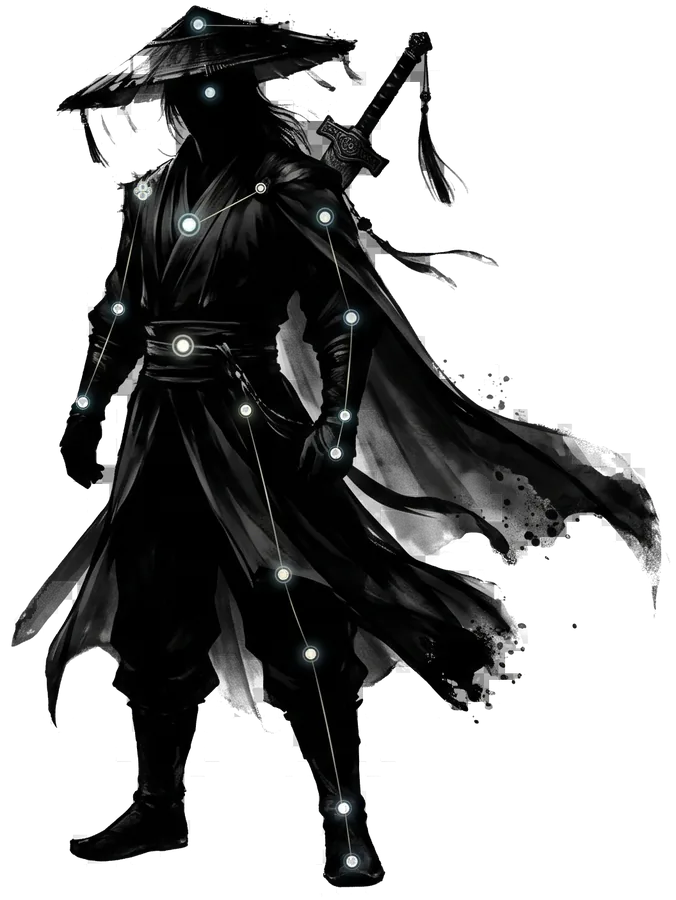
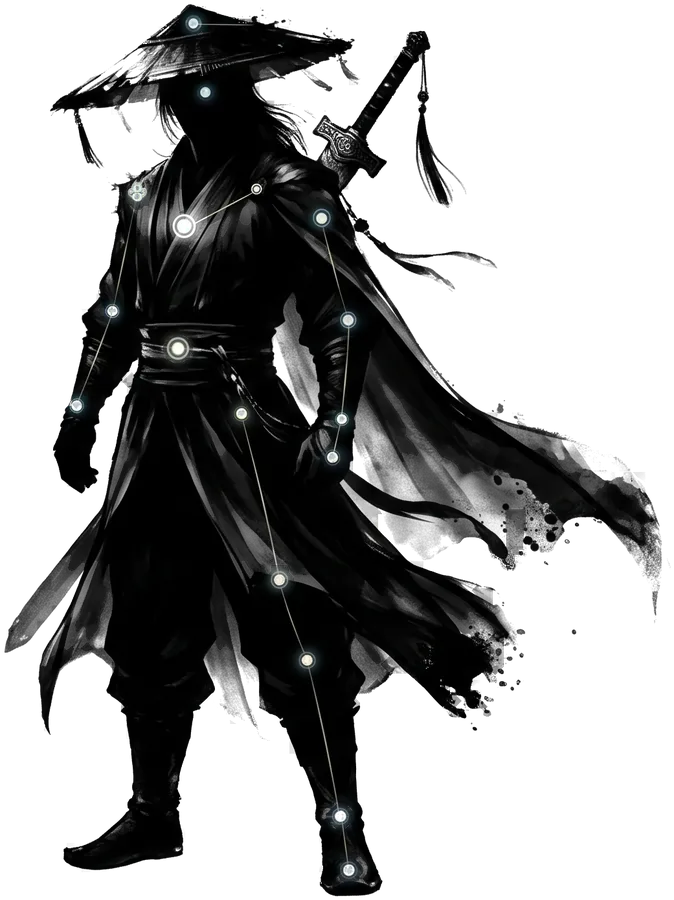
修練頁人物面板：女版剪影，角色是女的就換女版
男女各一張去背圖、各自的光點座標（HERO_FIGURES）；status.gender 是「女」時用女版。
男版重新去背，邊緣比較乾淨。

Claude-Session: https://claude.ai/code/session_01WxoqxfJkXgm6Kc1Q4FCuGs

diff --git a/web/app.js b/web/app.js
@@ -85,7 +85,7 @@
     person: null,
     kind: "武學",
     artOpen: null, // 修練頁武學清單裡點開的那一門（id）；切分頁、改練成功之後收起
-    heroNode: null, // 修練頁人物面板點著的那個光點（HERO_NODES 的 key）；沒點過是內功
+    heroNode: null, // 修練頁人物面板點著的那個光點（HERO_FIGURES 的 key）；沒點過是內功
     artInfo: null, // 修練頁哪一門攤開了「詳情」（完整的功法卡）
     libFilter: null, // 修練頁功法庫的篩選：all／武學／內功／ready（可修練）；武學多時才出現。null＝還沒讀過這個瀏覽器記的（libFilter()，FB-085）
     libAll: false, // 功法庫列完了沒（武學多時先只列 LIB_PAGE 門）
@@ -1912,17 +1912,30 @@
   }
 
   // ── 修練頁最上面的人物面板（企劃者 2026-10-12：照她給的人物剪影與版面改一版）──
-  // 剪影（web/hero.webp，去背過的）身上的光點各對上一樣真的東西：身上的兩門、四欄裝備（屬性不放上去，企劃者 2026-10-12「亂七八糟的」，
+  // 剪影（web/hero.webp、hero-f.webp，去背過的）身上的光點各對上一樣真的東西：身上的兩門、四欄裝備（屬性不放上去，企劃者 2026-10-12「亂七八糟的」，
   // 配點照舊在狀態列）。座標是剪影圖的百分比（照圖上的光點量的），side 是名字標在點的哪一邊。點了底下那一格寫它現在是什麼，
   // 多一顆「看這一門／看這件」捲到下面那張卡。點哪一個記在 S.heroNode（只是看的方式，輪詢重畫不跳回去）
-  const HERO_NODES = [
-    { key: "weapon", kind: "gear", x: 52.4, y: 15.4, side: "r" },
-    { key: "treasure", kind: "gear", x: 20.7, y: 20.8, side: "l" },
-    { key: "armor", kind: "gear", x: 47.9, y: 24.1, side: "r" },
-    { key: "內功", kind: "art", x: 27.1, y: 38.4, side: "r" },
-    { key: "武學", kind: "art", x: 50.6, y: 48.0, side: "r" },
-    { key: "mount", kind: "gear", x: 52.1, y: 95.7, side: "r" },
-  ];
+  // 男女各一張剪影（企劃者 2026-10-12：之後創角色要選性別），光點各照自己那張圖量；status.gender 是「女」就用女版，其餘（還沒有性別的角色）男版。
+  // 兩張的光點對上同樣六樣東西，只是位置不同；女版的寶物是腰間的佩飾、武學在手肘
+  const HERO_FIGURES = {
+    男: { src: "/static/hero.webp", ratio: "674 / 900", nodes: [
+      { key: "weapon", kind: "gear", x: 52.0, y: 15.1, side: "r" },
+      { key: "treasure", kind: "gear", x: 20.3, y: 21.4, side: "l" },
+      { key: "armor", kind: "gear", x: 47.7, y: 24.2, side: "r" },
+      { key: "內功", kind: "art", x: 26.4, y: 38.7, side: "r" },
+      { key: "武學", kind: "art", x: 50.0, y: 48.6, side: "r" },
+      { key: "mount", kind: "gear", x: 51.8, y: 96.7, side: "r" },
+    ] },
+    女: { src: "/static/hero-f.webp", ratio: "693 / 900", nodes: [
+      { key: "weapon", kind: "gear", x: 47.0, y: 17.5, side: "r" },
+      { key: "armor", kind: "gear", x: 42.6, y: 23.6, side: "r" },
+      { key: "武學", kind: "art", x: 47.2, y: 33.8, side: "r" },
+      { key: "內功", kind: "art", x: 25.0, y: 38.1, side: "l" },
+      { key: "treasure", kind: "gear", x: 35.8, y: 45.3, side: "r" },
+      { key: "mount", kind: "gear", x: 50.1, y: 96.9, side: "r" },
+    ] },
+  };
+  const heroFigure = (s) => HERO_FIGURES[s && s.gender === "女" ? "女" : "男"];
   const HERO_GEAR_NAMES = { weapon: "武器", armor: "防具", mount: "坐騎", treasure: "寶物" };
   // 一個光點此刻的樣子：標籤、有沒有東西（沒有的點暗著）、底下那一格的標題、說明、按鈕
   function heroInfo(n, x, s) {
@@ -1957,7 +1970,8 @@
       <div class="hero-ft-row"><p>${esc(info.desc)}</p>${info.button}</div>`;
   }
   function heroPanel(x, s) {
-    const nodes = HERO_NODES.map((n) => [n, heroInfo(n, x, s)]).filter(([, info]) => info);
+    const fig = heroFigure(s);
+    const nodes = fig.nodes.map((n) => [n, heroInfo(n, x, s)]).filter(([, info]) => info);
     if (!nodes.length) return "";
     const pick = nodes.find(([n]) => n.key === S.heroNode) || nodes.find(([n]) => n.key === "內功") || nodes[0];
     return `<section class="hero" aria-label="人物">
@@ -1967,8 +1981,8 @@
       </div>
       <div class="hero-stage">
         <div class="hero-halo" aria-hidden="true"></div>
-        <div class="hero-fig">
-          <img src="/static/hero.webp" alt="" draggable="false">
+        <div class="hero-fig" style="aspect-ratio:${fig.ratio}">
+          <img src="${fig.src}" alt="" draggable="false">
           ${nodes.map(([n, info]) => `<button class="hero-node${n === pick[0] ? " on" : ""}${info.lit ? "" : " dim"} ${n.side}" style="left:${n.x}%;top:${n.y}%" data-act="hero-node" data-key="${esc(n.key)}" aria-label="${esc(info.label)}"><i class="pulse"></i><i class="dot"></i><span>${esc(info.label)}</span></button>`).join("")}
         </div>
       </div>
@@ -1978,7 +1992,7 @@
   // 點光點：只換點的樣子與底下那一格、在點上散一圈朱砂（不重畫整頁，水墨的動畫才不會斷）
   function heroTap(el) {
     const key = el.dataset.key;
-    const n = HERO_NODES.find((h) => h.key === key);
+    const n = S.main && heroFigure(S.main.status).nodes.find((h) => h.key === key);
     const info = n && S.menxia && S.main && heroInfo(n, S.menxia, S.main.status);
     if (!info) return;
     S.heroNode = key;

diff --git a/web/style.css b/web/style.css
@@ -1152,7 +1152,7 @@ ol.annals { list-style: none; margin: 0; padding: 4px 14px; }
 .hero-halo { position: absolute; width: 300px; height: 300px; top: 30px; left: calc(50% - 150px); border-radius: 50%;
   border: 1.5px dashed var(--hero-edge); animation: hero-spin 45s linear infinite; pointer-events: none; }
 @keyframes hero-spin { to { transform: rotate(360deg); } }
-.hero-fig { position: absolute; top: 6px; bottom: 6px; left: 50%; transform: translateX(-50%); aspect-ratio: 676 / 900; }
+.hero-fig { position: absolute; top: 6px; bottom: 6px; left: 50%; transform: translateX(-50%); aspect-ratio: 674 / 900; } /* 照哪一張剪影，app.js 用 style 蓋掉 */
 .hero-fig img { display: block; width: 100%; height: 100%; filter: drop-shadow(0 6px 12px rgba(0, 0, 0, 0.22)); pointer-events: none; user-select: none; -webkit-user-drag: none; }
 .hero-node { position: absolute; transform: translate(-50%, -50%); width: 28px; height: 28px; padding: 0; border: 0; background: none;
   display: flex; justify-content: center; align-items: center; cursor: pointer; z-index: 2; -webkit-tap-highlight-color: transparent; }

diff --git a/tests/test_hero_panel_web.py b/tests/test_hero_panel_web.py
@@ -56,3 +56,13 @@ def test_a_picked_node_stays_picked_and_gear_nodes_follow_the_open_slots(views):
     assert "&lt;i&gt;試刃&lt;/i&gt;" in foot and "<i>試刃</i>" not in foot  # 名字跳脫
     assert 'data-act="hero-jump" data-to="gear" data-kind="weapon"' in foot
     assert 'data-slot="weapon"' in page  # 「看這件」捲得到的那一段在
+
+
+def test_a_woman_gets_the_female_figure_and_its_own_node_spots(views):
+    m, x = views
+    man = _panel(run(m, "return H.pagePractice();", menxia=x))
+    m["status"]["gender"] = "女"  # 創角色選性別之後由伺服器給（企劃者 2026-10-12）；還沒有這個鍵的角色照男版
+    woman = _panel(run(m, "return H.pagePractice();", menxia=x))
+    assert "/static/hero.webp" in man and "/static/hero-f.webp" in woman
+    spot = lambda page: page.split('data-key="內功"')[0].rsplit("<button", 1)[1]
+    assert spot(man) != spot(woman)  # 光點照各自那張圖的位置

diff --git a/CLAUDE.md b/CLAUDE.md
@@ -285,7 +285,7 @@
 - 登入狀態是 cookie（`tx_session`），伺服器記憶體裡對應帳號；**重開伺服器要重新登入**。前端每 10 秒打 `/api/main`，分頁在背景時不打、上一次還沒回來不打、內容沒變不重畫。手指按在畫面上時輪詢不重畫江湖頁，放開才補（不然按下去的那一顆被換掉、click 落空）。
 - **送出指令的回饋**（Joy 2026-10-12，`web/app.js` 的「送出指令的回饋」那一段）：走 `busy()` 的動作一律一樣——按下去那一顆標 `.sending`（掃光、不能再按），1.5 秒沒回來畫面底下浮一行等候的話（照行動換句，`WAIT_LINES`／`waitLineFor`：探索「四下探看，尚無動靜……」、開爐「爐火正旺，靜待出爐……」，其他「墨跡未乾，江湖尚未回音……」；Joy 要符合世界觀的句子，字是 PM 給的）、12 秒改寫「路遠消息遲，再等片刻……」；上一個還沒回來時再按別的，浮「前一道號令尚未回音」（以前一聲不響地丟掉）。動作（POST）最多等 90 秒（`ACTION_TIMEOUT_MS`），逾時與沒送出去都說「鴻雁折返，訊息未達——再試一次」，逾時另重抓一次畫面，按鈕還原。測試切 busy 一律用 webharness 的 `busyKit()`。
 - **江湖頁**：劇情文字在上、行動在下；375×812 上「剛剛」、場景與整排行動都在第一屏（企劃者要的是按完不用捲就看得到結果）。平常閒著時（選單上有「打坐」）行動是一排五顆「水墨氣勁」按鈕：探索、遊歷、打坐、交友（沒有時是求見）、移動（點了在下面展開走法與「前往」）；其他只在此地才有的行動收在「此地還能做 N 件事」。事件、對話、路上、決戰的選單照舊是一排按鈕。鐵匠鋪（`smith:`）與馬市（`market:`）的選項標籤很長，網頁（`nbChunks`／`.nb`）把它切成不折行的小段，切在「・；、，＋→」後面與「（」前面、一段超過 16 字就不包，標籤的字一個不改，免得 375px 上「下品 46%」「沒人」「屬實」這類詞在字中間斷行（FB-132）。第一季另有公告卡、本週軍令卡、戰況圖卡。
-- **修練頁**（`pagePractice`）：最上面是人物面板（企劃者 2026-10-12 給的版面與剪影；`heroPanel`，圖是去背過的 `web/hero.webp`）：剪影身上的光點對上身上的內功與武學、開著的裝備欄（`HERO_NODES`，座標是圖的百分比；屬性不放上去，企劃者 2026-10-12「亂七八糟的」），點了只換底下那一格（`heroTap`，不重畫整頁；記在 `S.heroNode`，預設內功）：寫那一門或那一件，多一顆「看這一門／看這件」捲到下面那張卡；舞台深淺色都是紙。其下是身上的功法卡、練成鈕（寫價錢）；每一門武學一列（`owned_arts`：品質、熟練度、融的意境）可修練（含「服下破境丹」）、改練、熔煉；意境可化成心得；等著取名的絕學多一張定名表單；名冊與人物卡；「裝備」一塊（`gearBlock`，讀 `gear`：開著的欄位一段一段〔`data-slot`〕（坐騎那一段每一列寫省體力、路上快、決戰騎兵、落敗脫身；身上那匹一顆「餵」、裝備庫裡的只有「換上」〔路上灰掉〕，沒有拆解）（寶物那一段寫效果，裝備庫裡的只有「換上」，永遠按得下；「裝備」塊底下一行寫寄放著哪幾件）、每段身上那件與裝備庫裡同一欄的、格數四欄合算，8 件之後「再列 N 件」；FB-125 的兩顆鈕包在一起、拆解先問一次）。
+- **修練頁**（`pagePractice`）：最上面是人物面板（企劃者 2026-10-12 給的版面與剪影；`heroPanel`，圖是去背過的 `web/hero.webp`；角色 `status.gender` 是「女」時換女版 `web/hero-f.webp`〔企劃者 2026-10-12：之後創角色要選性別，那個欄位還沒做，現在大家都是男版〕）：剪影身上的光點對上身上的內功與武學、開著的裝備欄（`HERO_FIGURES`：男女各一張圖、各自的光點，座標是圖的百分比；屬性不放上去，企劃者 2026-10-12「亂七八糟的」），點了只換底下那一格（`heroTap`，不重畫整頁；記在 `S.heroNode`，預設內功）：寫那一門或那一件，多一顆「看這一門／看這件」捲到下面那張卡；舞台深淺色都是紙。其下是身上的功法卡、練成鈕（寫價錢）；每一門武學一列（`owned_arts`：品質、熟練度、融的意境）可修練（含「服下破境丹」）、改練、熔煉；意境可化成心得；等著取名的絕學多一張定名表單；名冊與人物卡；「裝備」一塊（`gearBlock`，讀 `gear`：開著的欄位一段一段〔`data-slot`〕（坐騎那一段每一列寫省體力、路上快、決戰騎兵、落敗脫身；身上那匹一顆「餵」、裝備庫裡的只有「換上」〔路上灰掉〕，沒有拆解）（寶物那一段寫效果，裝備庫裡的只有「換上」，永遠按得下；「裝備」塊底下一行寫寄放著哪幾件）、每段身上那件與裝備庫裡同一欄的、格數四欄合算，8 件之後「再列 N 件」；FB-125 的兩顆鈕包在一起、拆解先問一次）。
 - **煉製頁**（`pageCraft`）：太極火爐左右兩格放「一門武學＋一個意境」、「兩門武學」（第二門當 `other_art` 送出）或「兩個意境」，點有東西的那一格拿出來；挑東西在爐子下面的武學與意境清單；說明那一行即時更新（`/api/forge_line`），「開爐」緊接在它下面；等結果時整座爐子晃動，開爐之後頁面不捲、結果寫在「開爐」底下（`S.forgeResult`）；真的合成了兩格清空（伺服器回 `made`，`Game.forged`），被拒絕沒合成的東西留在爐裡（只拿掉已經不在手上的；Joy 2026-10-12）；爐裡放了一樣時，清單上跟它合不了的灰掉、寫兩三個字的原因（`skillview.forge_picks`，原因是 `fusion.Refusal.short`，點了只說整句；不標沒人合過、不露結果與品質），跟著 `/api/forge_line` 回來。**不替玩家列出合得出來的組合**（企劃者 2026-10-10 退回過「現在合得出來的」清單與一鍵開爐：「這樣改不就變成玩家腦都不用動」，合成要講究邏輯、藏彩蛋）。挑東西的清單另有屬性、品質、排序與「只看合得了的」（`S.craftView`，企劃者 2026-10-10）；第一季手上有伏筆物品時多一列「伏筆物品」；背包上面是「武學譜」與「鑄譜」兩本的入口（`manualEntry(which)`；武學譜讀 `status_data["manual"]`、鑄譜讀 `status_data["forge_manual"]`），點了開全螢幕的一本線裝書（`bookHtml(which)`，`S.book` 記開哪一本：`"arts"`／`"forge"`，闔上是 `false`；疊在整個畫面上、左上返回、換分頁就闔上；企劃者 2026-10-10「獨立一頁，做得更豪華一些」）：一條秘方一頁，口訣直書、照標點一段一欄，合中了蓋朱印（`sealSvg`）寫名號（鑄譜打中過的另外寫配方〔`.leaf-recipe`〕），沒聽過的不露；顏色是 `--bk-*`，字體 `--bk-serif`；最底下摺疊「背包」（素材，有破境丹時另起「傳奇道具」小標題）。
 - **輿圖**：四個圖層，可拖、可縮放；點地點看詳情，「安排前往」是步行／趕路／疾行三顆（`/api/travel` 帶 `mode`，照 `Game.travel_options()` 畫）。
 
